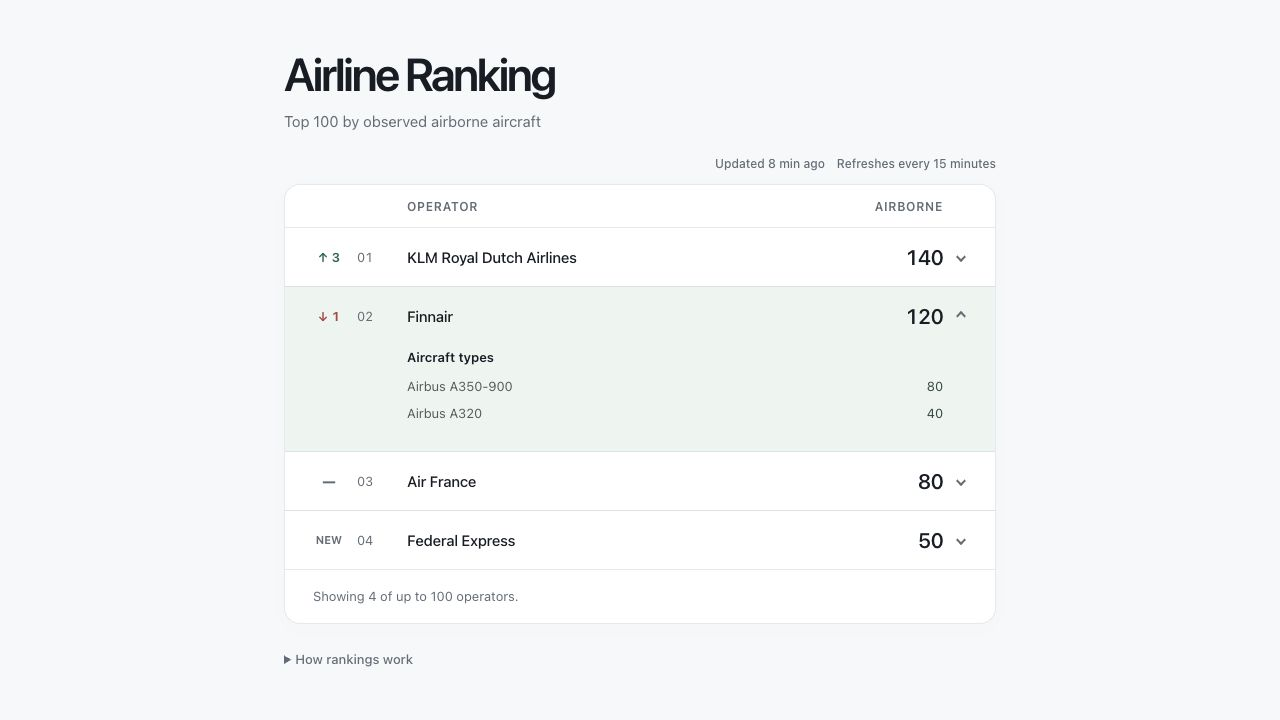
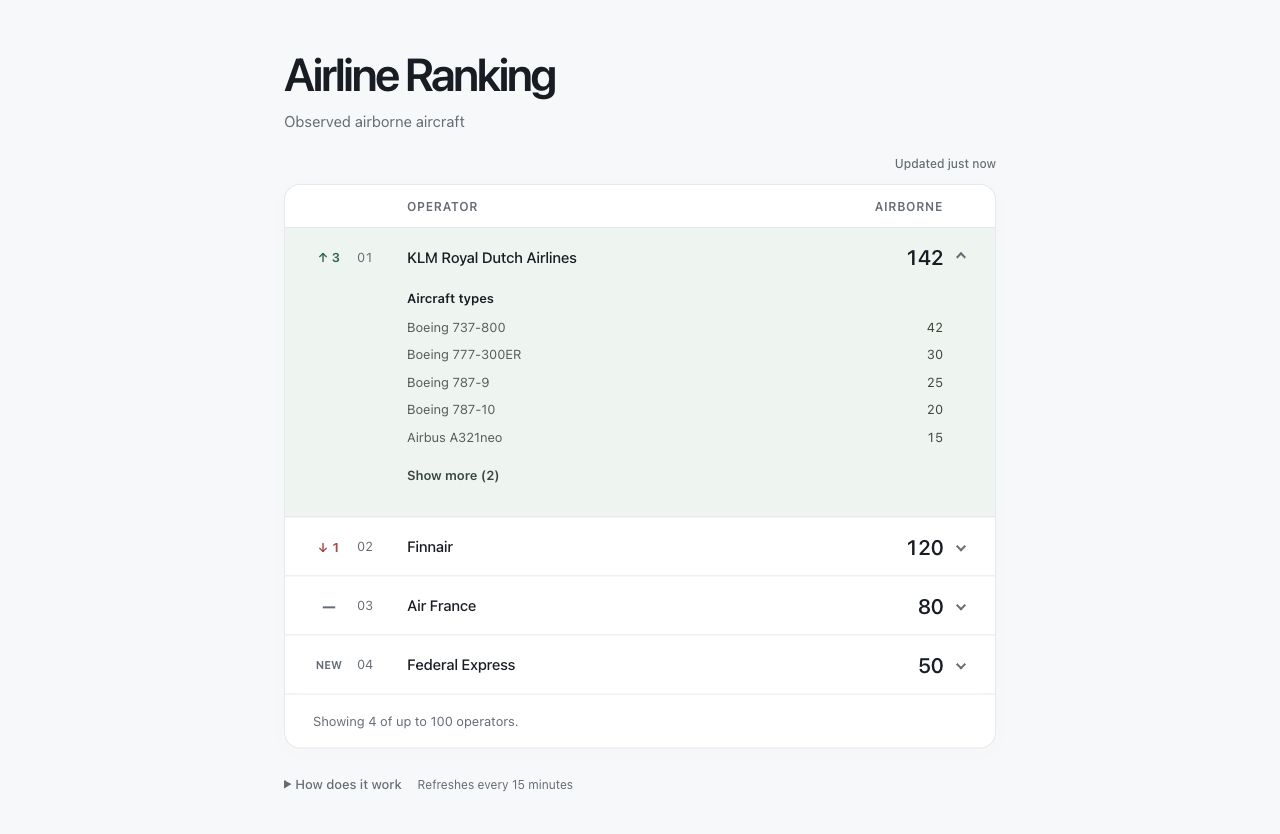
Simplify snapshot context and shorten aircraft drawers

diff --git a/src/app.html b/src/app.html
@@ -1,15 +1,12 @@
 <main>
   <header class="page-header">
     <h1>Airline Ranking</h1>
-    <p class="subtitle">Top 100 by observed airborne aircraft</p>
+    <p class="subtitle">Observed airborne aircraft</p>
   </header>
 
-  <div class="snapshot-status">
-    @if (snapshot()) {
-      <span>Updated {{ snapshotAge() }}</span>
-    }
-    <span>Refreshes every 15 minutes</span>
-  </div>
+  @if (snapshot()) {
+    <div class="snapshot-status">Updated {{ snapshotAge() }}</div>
+  }
 
   <section class="leaderboard" aria-label="Airline leaderboard">
     <div class="board-header">
@@ -62,14 +59,26 @@
                     @if (airline.count === 0) {
                       <p class="no-aircraft">No aircraft currently observed airborne.</p>
                     } @else {
-                      <dl aria-label="Aircraft types">
-                        @for (type of airline.aircraftTypes; track type.name) {
+                      @let visibleTypes = isShowingAllTypes() ? airline.aircraftTypes : airline.aircraftTypes.slice(0, collapsedTypeLimit);
+                      <dl aria-label="Aircraft types" [id]="'type-list-' + airline.id">
+                        @for (type of visibleTypes; track type.name) {
                           <div class="aircraft-type">
                             <dt>{{ type.name }}</dt>
                             <dd>{{ type.count | number }}</dd>
                           </div>
                         }
                       </dl>
+                      @if (airline.aircraftTypes.length > collapsedTypeLimit) {
+                        <button class="types-toggle" type="button" (click)="isShowingAllTypes.set(!isShowingAllTypes())"
+                          [attr.aria-expanded]="isShowingAllTypes()" [attr.aria-controls]="'type-list-' + airline.id">
+                          @if (isShowingAllTypes()) {
+                            Show less
+                          } @else {
+                            Show more ({{ airline.aircraftTypes.length - collapsedTypeLimit }})
+                          }
+                          <span class="visually-hidden"> aircraft types for {{ airline.name }}</span>
+                        </button>
+                      }
                     }
                   </div>
                 </div>
@@ -89,8 +98,8 @@
   </section>
 
   <details class="method-details">
-    <summary>How rankings work</summary>
-    <p>Based on SkyLink observations; coverage varies. Operators are grouped by their callsign prefix, including cargo, regional and private operators. These are observed counts, not complete worldwide totals. Equal counts are ordered by prefix.</p>
+    <summary><span>How does it work</span><span class="refresh-interval">Refreshes every 15 minutes</span></summary>
+    <p>The top 100 operators are ranked by aircraft observed airborne in SkyLink data; coverage varies. Operators are grouped by their callsign prefix, including cargo, regional and private operators. These are observed counts, not complete worldwide totals. Equal counts are ordered by prefix.</p>
     <p>Callsigns matching aircraft registrations are excluded. Unresolved operators appear as codes; callsigns do not guarantee operator identity. Aircraft types use verified labels where available; unfamiliar model labels remain separate.</p>
     <p>Arrows show how many places an operator moved since the previous successful snapshot. NEW means it was outside the previous top 100; a dash means unchanged. A blank movement cell means no previous snapshot is available. After a delay, the comparison still uses the last successful snapshot.</p>
     @if (snapshot(); as currentSnapshot) {

diff --git a/src/styles.css b/src/styles.css
@@ -8,11 +8,12 @@ h1 { font-size: clamp(32px, 6vw, 46px); line-height: 1.12; letter-spacing: -.055
 .subtitle { color: #626c76; margin: 0; font-size: 15px; line-height: 1.5; }
 .method-details { margin-top: 16px; color: #626c76; font-size: 13px; line-height: 1.7; }
 .method-details summary { width: fit-content; padding: 8px 0; font-weight: 500; cursor: pointer; }
-.method-details summary:focus-visible { outline: 2px solid #617a70; outline-offset: 3px; }
+.method-details summary:focus-visible, .types-toggle:focus-visible { outline: 2px solid #617a70; outline-offset: 3px; }
 .method-details p { margin: 8px 0 0; max-width: 620px; }
+.refresh-interval { display: inline-block; margin-left: 16px; font-size: 12px; font-weight: 400; white-space: nowrap; }
 .leaderboard { background: #fff; border: 1px solid #e5e8eb; border-radius: 16px; box-shadow: 0 4px 22px #18263503; }
 .board-header { position: sticky; top: 0; z-index: 1; background: #fff; border-radius: 16px 16px 0 0; border-bottom: 1px solid #e5e8eb; }
-.snapshot-status { display: flex; justify-content: flex-end; flex-wrap: wrap; gap: 4px 12px; margin-bottom: 12px; color: #626c76; font-size: 12px; font-weight: 500; line-height: 1.5; }
+.snapshot-status { margin-bottom: 12px; text-align: right; color: #626c76; font-size: 12px; font-weight: 500; line-height: 1.5; }
 .column-headings, .airline-toggle { display: grid; grid-template-columns: 32px 38px minmax(0, 1fr) 80px 12px; column-gap: 12px; align-items: center; }
 .column-headings { padding: 14px 28px; color: #626c76; font-size: 12px; letter-spacing: .06em; font-weight: 600; }
 .column-headings > :nth-child(4) { text-align: right; }
@@ -43,6 +44,8 @@ li.is-expanded { background: #edf4ef; }
 .aircraft-type { display: grid; grid-template-columns: minmax(0, 1fr) 4ch; align-items: start; gap: 16px; padding: 4px 0; color: #515e58; font-size: 13px; line-height: 1.5; }
 .aircraft-type dt { overflow-wrap: anywhere; }
 .aircraft-type dd { margin: 0; text-align: right; font-variant-numeric: tabular-nums; color: #34473d; }
+.types-toggle { display: block; margin-top: 6px; min-height: 36px; padding: 6px 0; border: 0; background: transparent; color: #34473d; font: inherit; font-size: 13px; font-weight: 600; cursor: pointer; }
+.types-toggle:hover { text-decoration: underline; text-underline-offset: 3px; }
 .no-aircraft { margin: 10px 0 0; color: #626c76; font-size: 13px; line-height: 1.5; }
 .results-note { margin: 0; padding: 16px 28px; border-top: 1px solid #e5e8eb; color: #626c76; font-size: 13px; line-height: 1.6; }
 .update-warning { font-size: 12px; line-height: 1.5; color: #755319; background: #fcf7ed; border-radius: 6px; margin: 16px 28px 0; padding: 9px 12px; }

diff --git a/src/app.ts b/src/app.ts
@@ -29,9 +29,12 @@ export class AppComponent implements OnInit, OnDestroy {
   readonly rows = signal<Airline[]>([]);
   readonly announcement = signal('');
   readonly expandedAirlineId = signal<string | null>(null);
+  readonly isShowingAllTypes = signal(false);
+  readonly collapsedTypeLimit = 5;
 
   toggleAirline(airline: Airline): void {
     const isExpanded = this.expandedAirlineId() === airline.id;
+    if (!isExpanded) { this.isShowingAllTypes.set(false); }
     this.expandedAirlineId.set(isExpanded ? null : airline.id);
   }
 

diff --git a/README.md b/README.md
@@ -34,9 +34,9 @@ npm start
 
 Open http://127.0.0.1:4200. Both services listen on loopback only. Angular proxies `/api/ranking` to the backend on port 3000; the API key stays on the backend.
 
-The browser checks the cache every minute. The snapshot age and 15-minute refresh interval sit together above the table; age updates on each browser check. The exact UTC timestamp and grouping rules are in the “How rankings work” disclosure below the table. Column labels and any delay notice stay visible in the sticky table header while scrolling. Rows animate to their new positions; counts update immediately with a brief neutral highlight. Reduced-motion preferences disable these effects. If an update fails, the last successful ranking and its original timestamp remain visible with a delay notice. Before the first successful snapshot, the UI shows an unavailable message and retries automatically.
+The browser checks the cache every minute. The snapshot age sits above the table and updates on each browser check. The 15-minute refresh interval sits beside “How does it work” below the table; that disclosure contains the exact UTC timestamp and grouping rules. Column labels and any delay notice stay visible in the sticky table header while scrolling. Rows animate to their new positions; counts update immediately with a brief neutral highlight. Reduced-motion preferences disable these effects. If an update fails, the last successful ranking and its original timestamp remain visible with a delay notice. Before the first successful snapshot, the UI shows an unavailable message and retries automatically.
 
-Click an airline to expand its aircraft-type breakdown; only one row is expanded at a time. Expanded rows use a pale green background; hovering a closed row uses neutral gray. The same cached snapshot supplies both the total and its breakdown, without extra provider requests. The expanded airline stays open when the ranking changes, and its total updates immediately with its breakdown. The breakdown uses a compact list of model names and exact counts.
+Click an airline to expand its aircraft-type breakdown; only one row is expanded at a time. Expanded rows use a pale green background; hovering a closed row uses neutral gray. The same cached snapshot supplies both the total and its breakdown, without extra provider requests. The expanded airline stays open when the ranking changes, and its total updates immediately with its breakdown. The breakdown initially shows the five most common types, with “Show more” revealing the remaining types and “Show less” returning to five. Opening an operator starts with five again; the current choice persists across snapshot updates while that operator stays open.
 
 Rank indicators compare each operator's position with the previous successful, distinct snapshot: a green upward arrow with the number of places gained, a red downward arrow with the number of places lost, and “New” for an operator absent from the previous top 100 (including returning operators). A dash marks an unchanged rank (zero movement); a blank cell means no previous snapshot is available. Movement has its own column before the rank. Equal aircraft counts still use prefix order, so indicators reflect row position rather than count changes. Hover text explains the comparison period; screen-reader text describes the direction and number of places. The API represents this as `rankChange`: a signed integer (positive means up, zero means unchanged), `"new"`, or an omitted field when no comparison exists.
 
